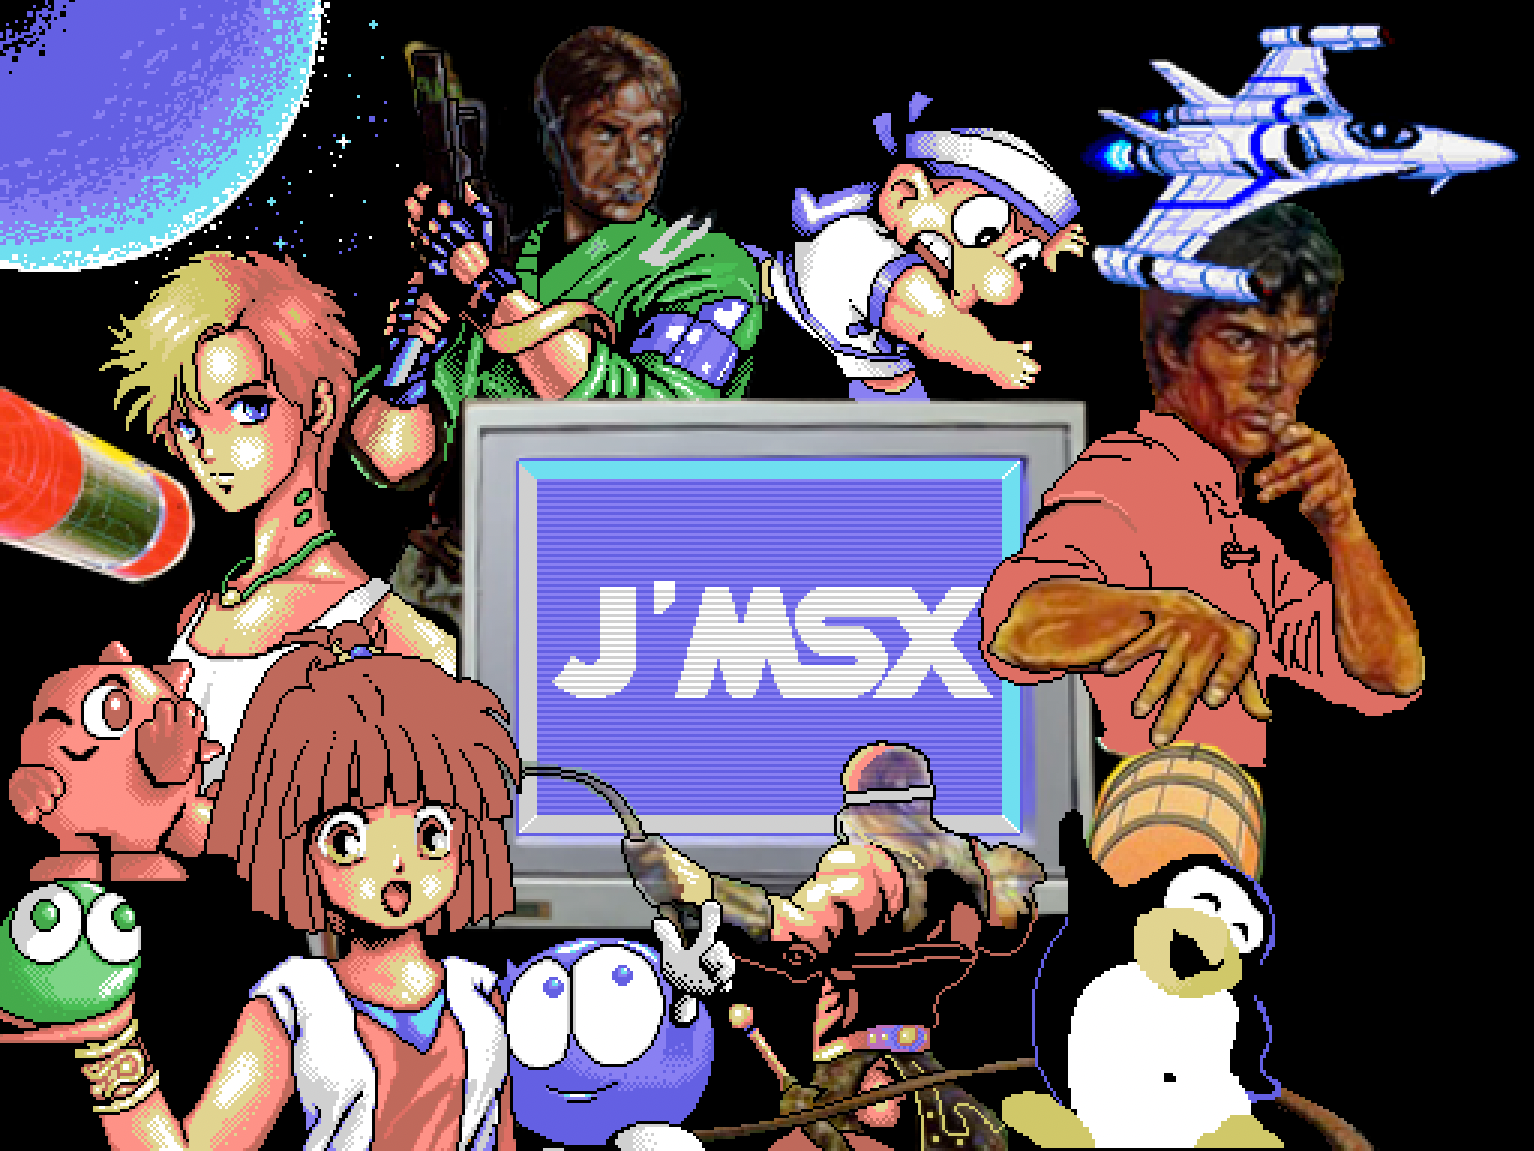
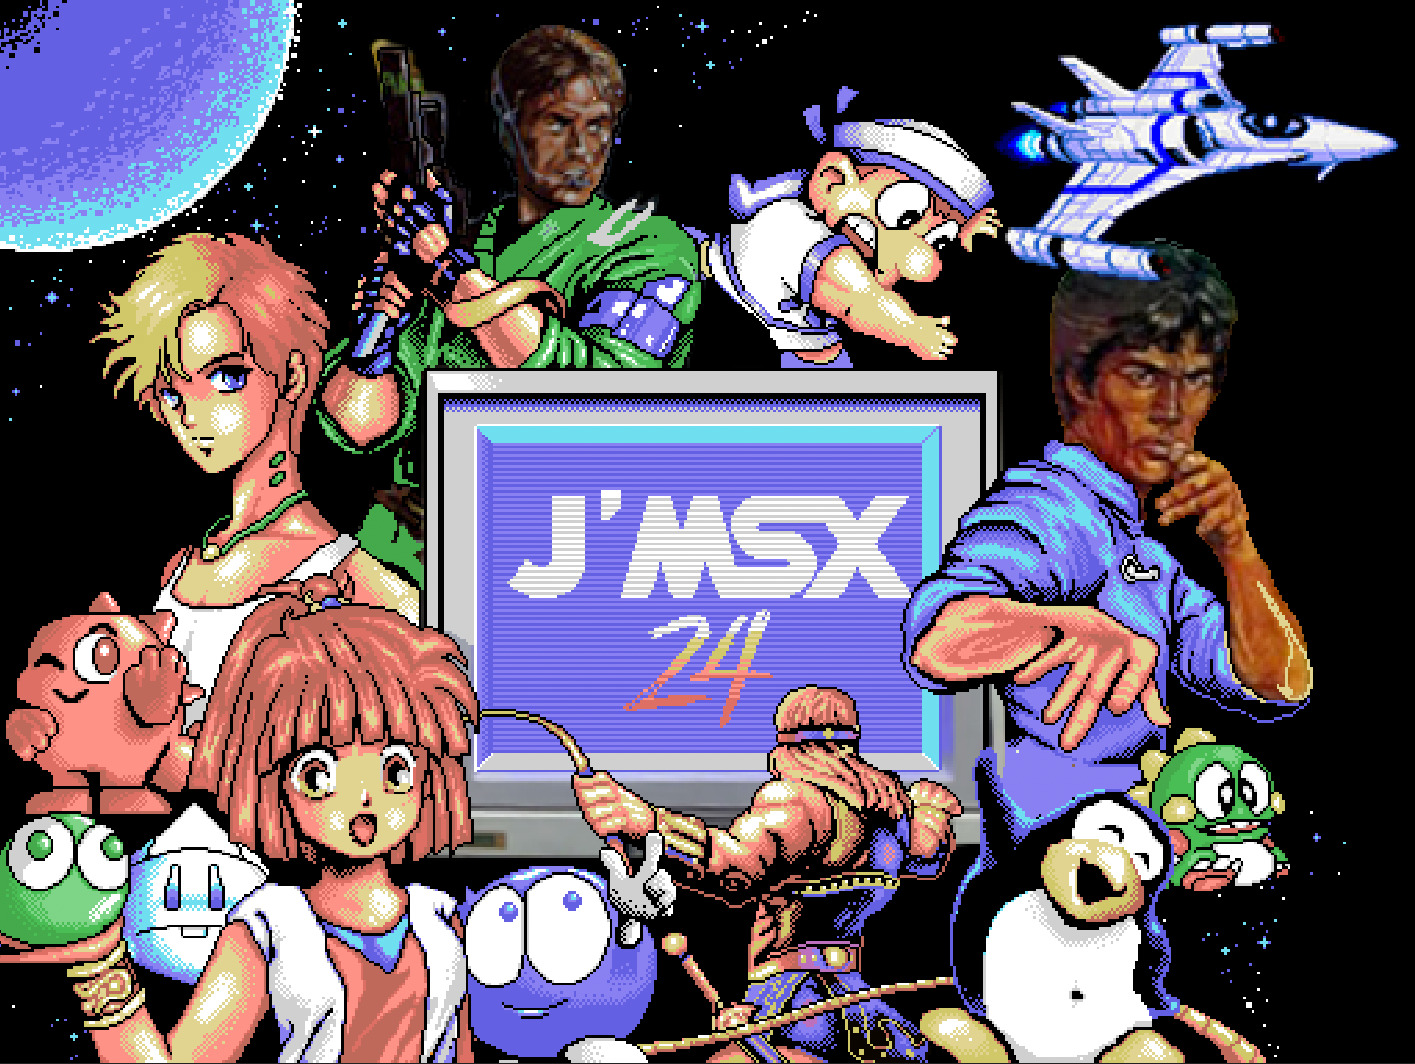
add sticky

diff --git a/components/sticky-infos.tsx b/components/sticky-infos.tsx
@@ -1,0 +1,48 @@
+import { dc } from "@/utils/dynamic-classes";
+
+const infos = [
+  {
+    title: "Invité: Kazuhiko Nishi",
+    content:
+      "Kazuhiko Nishi est un entrepreneur japonais, co-fondateur de Microsoft Japon et ASCII Corporation. Il est également un collectionneur d'art numérique et un artiste numérique.",
+    img: "/nishi.webp",
+  },
+  {
+    title: "Game Jam",
+    content:
+      "Oouveret à tous les étudiants de l'ISART, le Game Jam est un événement de 48 heures où les étudiants travaillent en équipe pour créer un jeu vidéo en partant de zéro. Le thème de cette année est 'Retro Futurism'.",
+    img: "/nishi.webp",
+  },
+];
+
+export function StickyInfos() {
+  return (
+    <section className="flex flex-col my-7 mx-auto gap-5 max-w-[700px] ">
+      {infos.map((info, index) => (
+        <article
+          key={index}
+          className={dc(
+            "flex flex-col items-center px-5 gap-4 lg:text-inherit text-sm w-full",
+            [index % 2 === 0, "md:flex-row", "md:flex-row-reverse md:text-right"]
+          )}
+        >
+          <img
+            src={info.img}
+            alt={info.title}
+            className="w-24 h-24 rounded-full"
+          />
+
+          <div className="flex flex-col gap-2">
+            <h2 className="font-bold text-msx-lightYellow text-lg">
+              {info.title}
+            </h2>
+            <p className="text-msx-white">{info.content}</p>
+            <button className="px-4 py-2 mt-3 text-msx-white border border-msx-darkBlue sm:self-end">
+              En savoir plus
+            </button>
+          </div>
+        </article>
+      ))}
+    </section>
+  );
+}

diff --git a/utils/dynamic-classes.ts b/utils/dynamic-classes.ts
@@ -1,0 +1,28 @@
+type ClassArgument = string | [boolean, string, string] | [boolean, string]
+
+/**
+ *
+ * @description Vous pouvez utiliser cette fonction pour générer des classes dynamiquement. Vous pouvez utiliser des tableaux pour générer des classes conditionnelles, par exemple: `dc(['condition', 'class-true', 'class-false'])` ou `dc(['condition', 'class-true'])`. Vous pouvez également utiliser des chaînes de caractères pour générer des classes statiques, par exemple: `dc('class-true')`. Il est possible d'utiliser plusieurs arguments, par exemple: `dc('class-true', ['condition', 'class-true', 'class-false'], ['condition', 'class-true'])`.
+ * @param classNames
+ * @returns string
+ *
+ */
+export function dc(...classNames: ClassArgument[]): string {
+  const classes: string[] = []
+
+  classNames.forEach((className) => {
+    if (Array.isArray(className)) {
+      if (className.length === 2) {
+        const [condition, trueClass] = className
+        if (condition) classes.push(trueClass)
+      } else {
+        const [condition, trueClass, falseClass] = className
+        classes.push(condition ? trueClass : falseClass)
+      }
+    } else {
+      classes.push(className)
+    }
+  })
+
+  return classes.join(' ')
+}

diff --git a/app/page.tsx b/app/page.tsx
@@ -1,14 +1,15 @@
+import { StickyInfos } from "@/components/sticky-infos";
+
 export default function Home() {
   return (
     <main className="">
-      <div className="poster min-h-[60dvh] lg:min-h-[70dvh] relative">
-   
-      </div>
-      <div className="p-3 bg-msx- border border-msx-lightYellow bg-msx-darkBlue flex flex-col items-center line-clamp-1 text-sm">
-          <div>Invité :</div>
-          <div>Kazuhiko Nishi</div>
-          <img src="/nishi.webp" alt="Kazuhiko Nishi" className="w-16 h-16 border border-2 border-msx-lightBlue" />
-        </div>
+      <img
+        src="/poster.webp"
+        alt="Affiche JMSX 24"
+        className="w-full h-full object-cover"
+        title="By Kobipixel"
+      />
+      <StickyInfos />
     </main>
   );
 }

diff --git a/app/globals.css b/app/globals.css
@@ -2,8 +2,6 @@
 @import "tailwindcss/components";
 @import "tailwindcss/utilities";
 
-
-
 * {
   box-sizing: border-box;
   scrollbar-color: theme("colors.msx.cyan") transparent;
@@ -27,20 +25,11 @@
   fieldset {
     @apply flex flex-col gap-2;
   }
-
-  .poster {
-    background-image: url('/poster.webp');
-    background-size: cover;
-    background-position: center center;
-  }
-
-
 }
-
 
 body {
   background: theme("colors.msx.black");
-  color: theme("colors.msx.white");  
+  color: theme("colors.msx.white");
   font-size: 1rem;
 }
 
